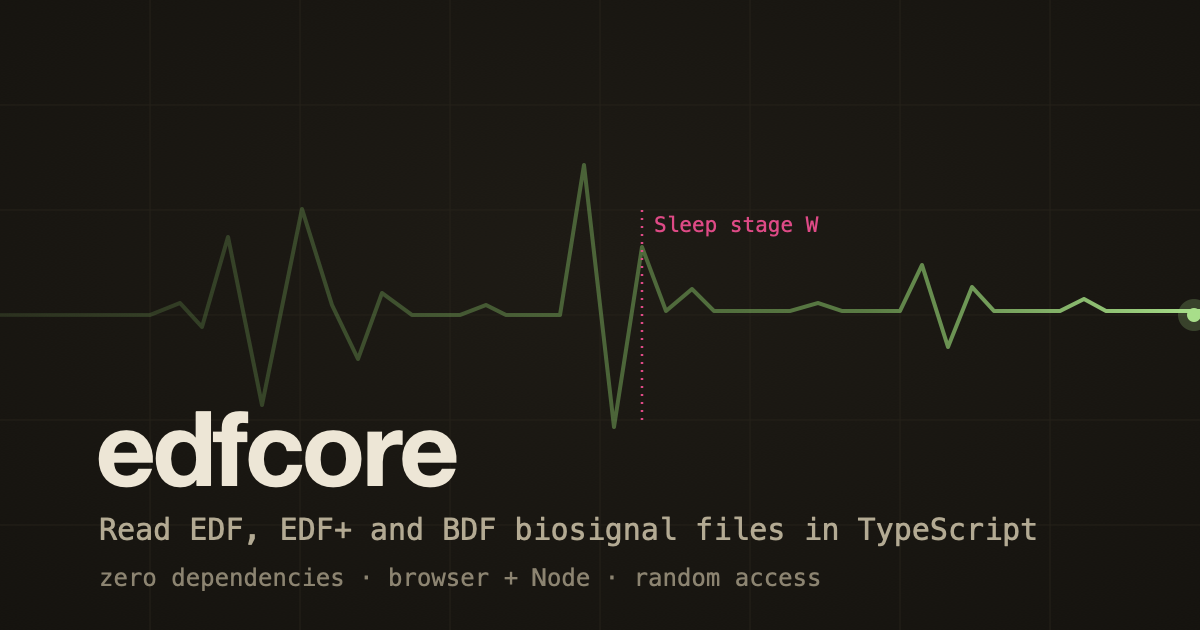
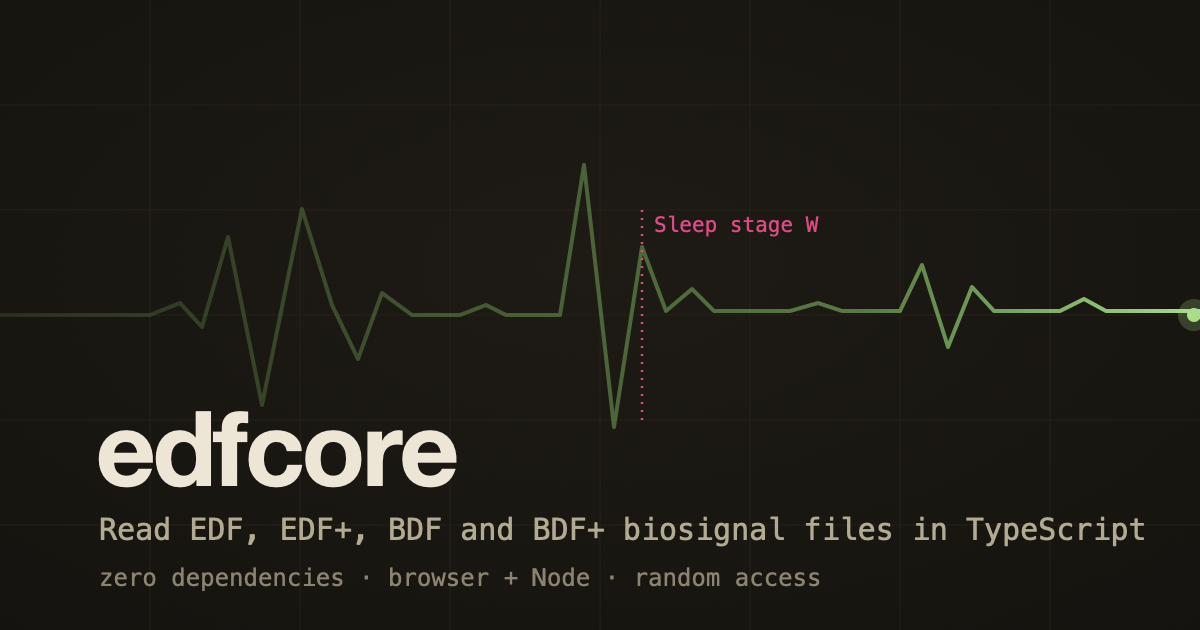
Attribute the hero and the share card to the format, and to all four of them
Released as 0.4.169 through 0.4.173.

- The hero trace is the format's arithmetic, not the library's
- Fix the same attribution in the hero caption
- The hero sentence lists every format the reader supports
- The share card lists all four formats
- Keep the share card's source next to the card

Squashed from 10 commits; the originals are on archive/pre-squash-2026-08-16.

Changed region(s): [[0.3083, 0.8143, 0.9558, 0.8746]]

diff --git a/src/constants.ts b/src/constants.ts
@@ -93,4 +93,4 @@ export const SIGNAL_FIELD_BLOCK_OFFSETS = {
 } as const;
 
 /** Published package version. Kept in sync with package.json by a test. */
-export const VERSION = '0.4.168';
+export const VERSION = '0.4.173';

diff --git a/docs/CHANGELOG.md b/docs/CHANGELOG.md
@@ -6,6 +6,38 @@ alone does not tell you whether you were affected.
 edfcore is pre-1.0. Patch releases have carried behaviour changes where the old behaviour was a
 defect; those are called out below.
 
+## 0.4.173
+
+- **Added** `website/design/`, holding the share card's SVG source and the two commands that
+  regenerate the PNG. 0.4.172 committed a binary nobody could edit; the source now sits beside a
+  README whose commands were verified to reproduce the shipped file byte for byte. The directory is
+  not served, so the site still ships one image.
+
+## 0.4.172
+
+- **Redrew** the share card, which listed three of the four formats the reader supports, and
+  updated its alt text to match. That image is the most-seen artifact the project has — every link
+  preview in a chat window renders it — and it was underselling BDF+.
+
+## 0.4.171
+
+- **Added** BDF+ back to the landing page's opening sentence. The sentence was taken from the
+  repository's own one-line description, which lists three formats; the library reads four, and the
+  footer of the same page said so, so the page contradicted itself in two paragraphs.
+
+## 0.4.170
+
+- **Corrected** the same attribution in the hero figure's caption, which is the text a screen
+  reader announces: "encoded and decoded the way edfcore reads them" became a statement about the
+  EDF format, which is what the canvas actually demonstrates.
+
+## 0.4.169
+
+- **Corrected** the `TraceStrip` docblock, which said the hero trace is "the output of the thing
+  being sold, not a drawing of one". The EDF round-trip on that canvas is written out in the
+  component; edfcore is not imported and does not run on the landing page. The round-trip is real,
+  the attribution was not.
+
 ## 0.4.168
 
 - **Removed** the `secondsToTicks()` prefix from the non-finite-seconds refusal. That helper is

diff --git a/website/design/README.md b/website/design/README.md
@@ -1,0 +1,22 @@
+# Design sources
+
+Not served. Only `public/` is, so the site still ships one image rather than two.
+
+## `og.svg` — the share card
+
+The source for `public/og.png`, the 1200x630 card every link preview renders. Kept because that
+PNG is otherwise an orphan binary: the next person to reword it would have to redraw it.
+
+The canvas is **1200x1200 with the card in its middle band**, which is what makes the two commands
+below work. Quick Look always renders a square thumbnail, so a 1200x630 source is scaled to fill
+and crops wrong.
+
+```bash
+cd website
+qlmanage -t -s 1200 -o design design/og.svg
+sips -c 630 1200 design/og.svg.png --out public/og.png && rm design/og.svg.png
+```
+
+Keep the wordmark and the line under it inside the middle 1080x600 — the region no platform crops.
+Anything the card claims has to match the page; `og:image:alt` in `src/layouts/Base.astro`
+describes this image and moves with it.
